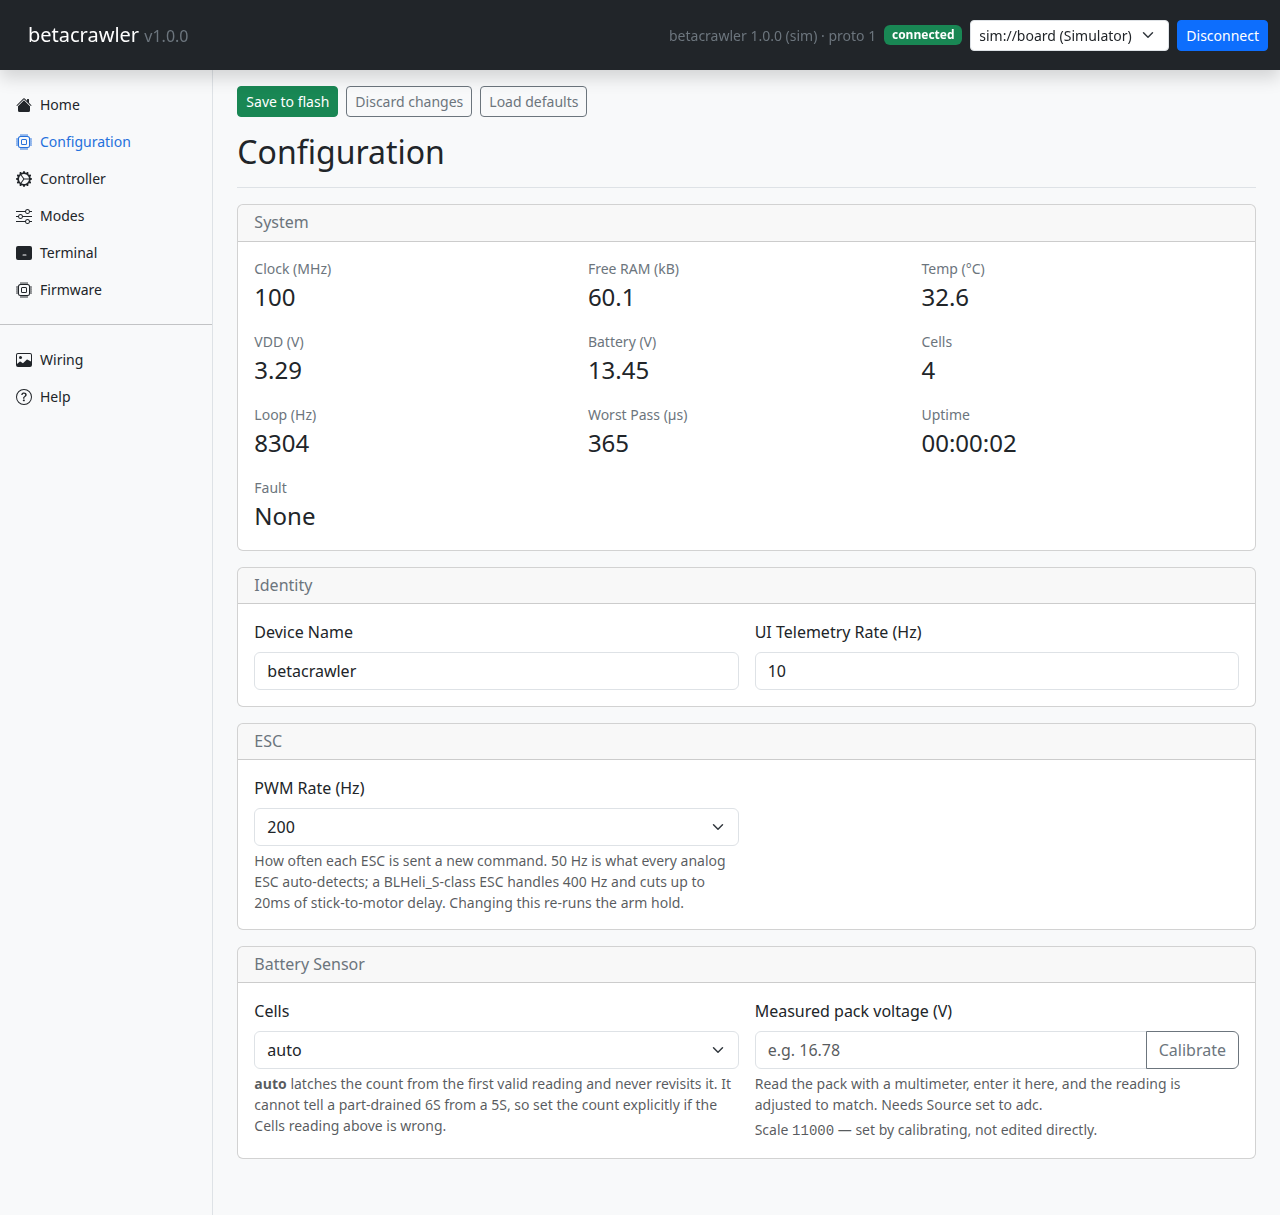
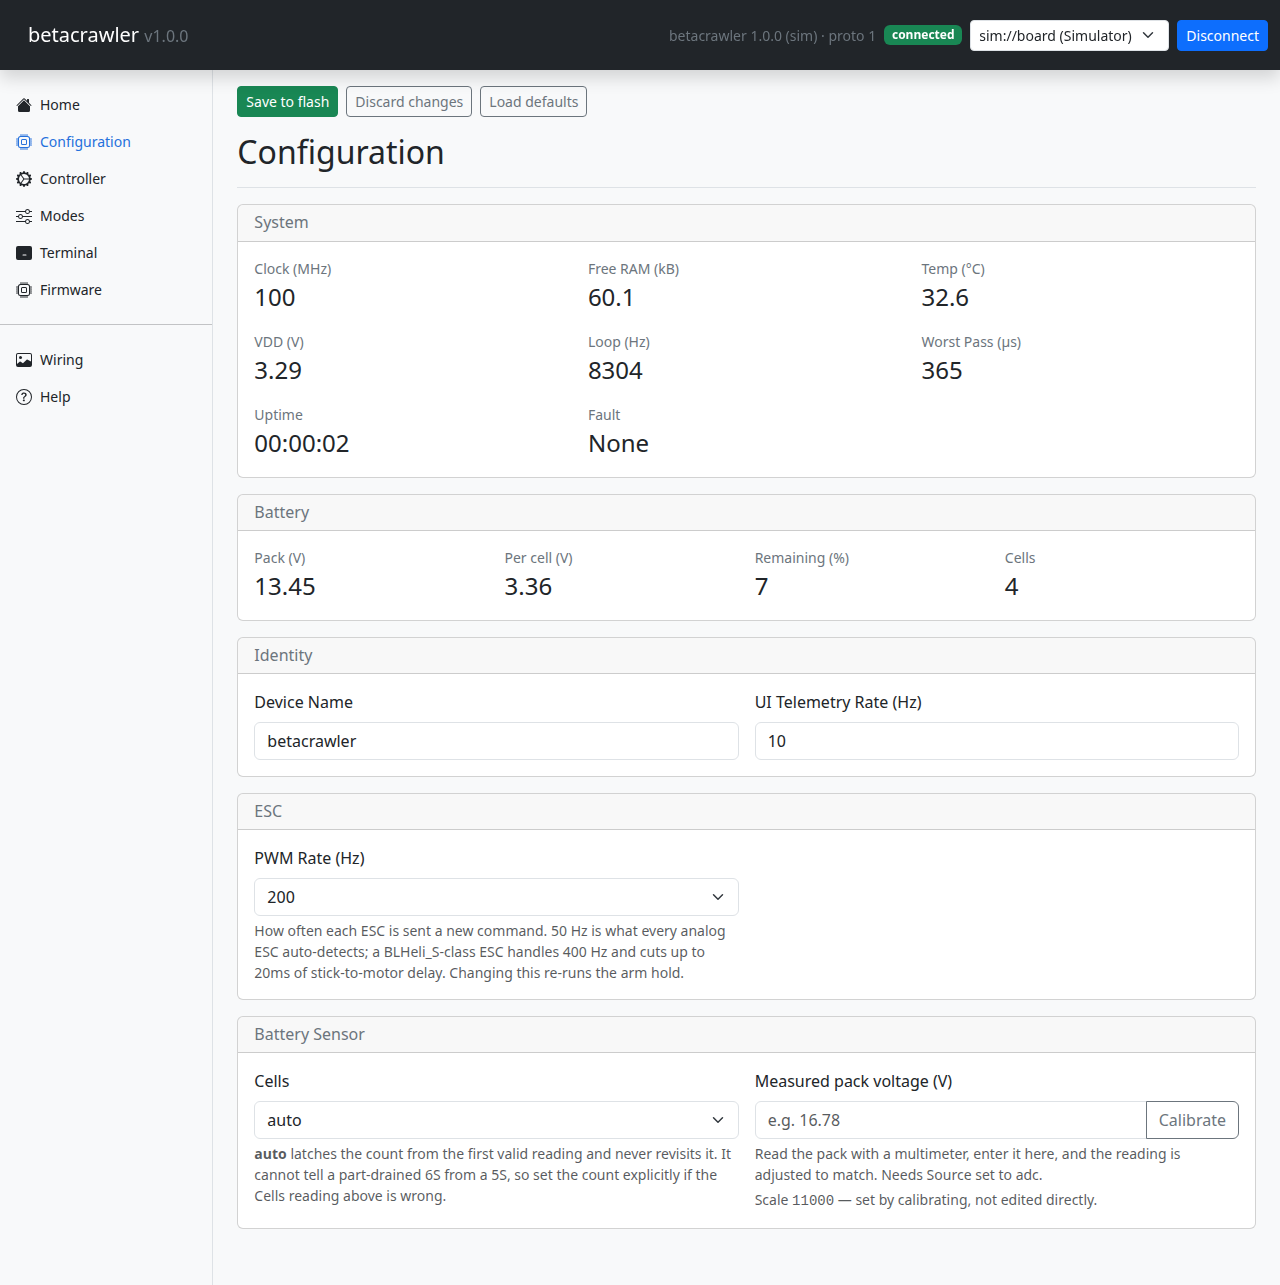
feat: show pack, per-cell and remaining percent on a Battery card
Per-cell voltage is the reading that tells you a pack is going flat without any
mental arithmetic, so it belongs next to the pack total rather than being left
for the reader to work out. The Configuration page gains a Battery card holding
pack volts, volts per cell, remaining percent and the latched cell count; those
readings move out of System, which already carried two of them.

pct becomes telemetry rather than a browser-side calculation. The firmware
already sends that figure in its CRSF frame, so a second copy of the
3.3-4.2V-per-cell curve in JavaScript would let the app and the handset disagree
about the same pack. Volts per cell stays in the browser: exact division of two
readings the schema already carries, with no policy to duplicate.

FW_MAX_TLM 40 -> 48. This build now publishes 40 fields, and the header's own
reasoning is that a bare fit leaves nothing for the next module. TlmValue is 4
bytes, so the headroom costs 32 bytes of static RAM.

sim_model.py mirrors the new field, and its validity floor follows the firmware
to 6000mV. The Calibrate guard follows it too -- it rejected readings under
5000mV, which no longer matches the floor it is standing in for.

Verified in a headless browser against the real board: the card reads
16.64V / 4.16V per cell / 95% / 4 cells with no console errors, and the
arithmetic checks out both ways.

diff --git a/app/web/pages/config.html b/app/web/pages/config.html
@@ -4,13 +4,10 @@
           <div class="card mb-3" x-data>
             <div class="card-header h6 text-secondary mb-0 py-2">System</div>
             <div class="card-body row g-3">
-              <template x-for="key in ['clk', 'ram', 'temp', 'vdd', 'vbat', 'cells', 'loop', 'loopworst', 'up']
+              <template x-for="key in ['clk', 'ram', 'temp', 'vdd', 'loop', 'loopworst', 'up']
                                  .filter((k) => $store.telemetry.field(k).def)" :key="key">
                 <div class="col-6 col-md-4">
-                  <div class="text-secondary small"
-                       x-text="$store.telemetry.field(key).def?.unit
-                         ? `${$store.telemetry.field(key).def.label} (${$store.telemetry.field(key).def.unit})`
-                         : $store.telemetry.field(key).def?.label"></div>
+                  <div class="text-secondary small" x-text="tlmLabel(key)"></div>
                   <div class="fs-4" x-text="$store.telemetry.field(key).value ?? '–'"></div>
                 </div>
               </template>
@@ -25,6 +22,33 @@
               </template>
             </div>
           </div>
+          <template x-if="$store.telemetry.field('vbat').def">
+            <div class="card mb-3" x-data>
+              <div class="card-header h6 text-secondary mb-0 py-2">Battery</div>
+              <div class="card-body row g-3">
+                <div class="col-6 col-md-3">
+                  <div class="text-secondary small">Pack (V)</div>
+                  <div class="fs-4" x-text="$store.telemetry.field('vbat').value ?? '–'"></div>
+                </div>
+                <div class="col-6 col-md-3">
+                  <div class="text-secondary small">Per cell (V)</div>
+                  <div class="fs-4" x-text="perCellText()"></div>
+                </div>
+                <template x-if="$store.telemetry.field('pct').def">
+                  <div class="col-6 col-md-3">
+                    <div class="text-secondary small" x-text="tlmLabel('pct')"></div>
+                    <div class="fs-4" x-text="$store.telemetry.field('pct').value ?? '–'"></div>
+                  </div>
+                </template>
+                <template x-if="$store.telemetry.field('cells').def">
+                  <div class="col-6 col-md-3">
+                    <div class="text-secondary small" x-text="tlmLabel('cells')"></div>
+                    <div class="fs-4" x-text="$store.telemetry.field('cells').value ?? '–'"></div>
+                  </div>
+                </template>
+              </div>
+            </div>
+          </template>
           <fieldset class="card mb-3" :disabled="!$store.app.connected" x-data>
             <legend class="card-header h6 text-secondary mb-0 py-2">Identity</legend>
             <div class="card-body row g-3">

diff --git a/app/web/app.js b/app/web/app.js
@@ -243,6 +243,25 @@ function faultIsError(value) {
   return value !== null && value !== undefined && Number(value) > 0;
 }
 
+// "Label (unit)" for a telemetry key, or just the label when it carries no
+// unit. The descriptor owns both; this only assembles them.
+function tlmLabel(key) {
+  const def = Alpine.store('telemetry').field(key).def;
+  if (!def) return '';
+  return def.unit ? `${def.label} (${def.unit})` : def.label;
+}
+
+// Volts per cell, derived rather than published: an exact division of two
+// readings the schema already carries, where `pct` is a firmware policy and so
+// comes over the wire. Dashes until a cell count has been latched.
+function perCellText() {
+  const t = Alpine.store('telemetry');
+  const mv = t.raw['vbat'];
+  const cells = t.raw['cells'];
+  if (!mv || !cells) return '\u2013';
+  return (mv / cells / 1000).toFixed(2);
+}
+
 // The config form and telemetry cards are the two most repetitive,
 // DOM-construction-heavy regions of this file -- markup for both now lives in
 // index.html as <template x-for> blocks. These two stores are the only
@@ -354,8 +373,10 @@ document.addEventListener('alpine:init', () => {
       // raw, not field().value: the latter is the FORMATTED string ("16.78"),
       // already through the div/dec display hints. The comparison and the
       // formula below are both in millivolts, which is what raw carries.
+      // Matches the firmware's own validity floor: a USB-powered board wired
+      // to a PDB reads ~4600mV with no pack, which must not be calibrated on.
       const reported = Alpine.store('telemetry').raw['vbat'];
-      if (!reported || reported < 5000) {
+      if (!reported || reported < 6000) {
         showError('Calibrate: no valid reading \u2014 connect a pack first');
         return;
       }

diff --git a/app/backend/sim_model.py b/app/backend/sim_model.py
@@ -37,14 +37,29 @@ def trunc_div(a: int, b: int) -> int:
 VBAT_SIM_LOW_MV = 13200
 VBAT_SIM_HIGH_MV = 16800
 VBAT_SIM_PERIOD_MS = 60000
-VBAT_MIN_VALID_MV = 5000
+VBAT_MIN_VALID_MV = 6000
 VBAT_CELL_DETECT_MV = 4300
+VBAT_CELL_EMPTY_MV = 3300
+VBAT_CELL_FULL_MV = 4200
 
 
 def detect_cells(pack_mv: int) -> int:
     if pack_mv < VBAT_MIN_VALID_MV:
         return 0
     return -(-pack_mv // VBAT_CELL_DETECT_MV)
+
+
+def remaining_pct(pack_mv: int, cells: int) -> int:
+    """Linear across empty..full per cell, clamped, as the firmware does it."""
+    if cells == 0:
+        return 0
+    per_cell = trunc_div(pack_mv, cells)
+    if per_cell <= VBAT_CELL_EMPTY_MV:
+        return 0
+    if per_cell >= VBAT_CELL_FULL_MV:
+        return 100
+    return trunc_div((per_cell - VBAT_CELL_EMPTY_MV) * 100,
+                     VBAT_CELL_FULL_MV - VBAT_CELL_EMPTY_MV)
 
 
 def triangle_percent(phase_ms: int, period_ms: int) -> int:
@@ -372,7 +387,7 @@ class SimModel:
         sweeps a synthetic pack, and the cell count latches once."""
         source = self.text("vbat.source")
         if source == "off":
-            return {"vbat": 0, "cells": 0}
+            return {"vbat": 0, "cells": 0, "pct": 0}
         # Both adc and sim sweep the same synthetic pack. There is no divider
         # here to read, and everything this model reports is synthetic by
         # definition -- a simulator that reported zero volts for its own
@@ -385,7 +400,8 @@ class SimModel:
             self._vbat_cells = int(sel)
         elif self._vbat_cells == 0:
             self._vbat_cells = detect_cells(mv)
-        return {"vbat": mv, "cells": self._vbat_cells}
+        return {"vbat": mv, "cells": self._vbat_cells,
+                "pct": remaining_pct(mv, self._vbat_cells)}
 
     def _system(self, now_ms: int) -> dict:
         # Deterministic triangles rather than a random walk: the whole model

diff --git a/firmware/include/config.h b/firmware/include/config.h
@@ -34,18 +34,19 @@
 // person, so don't rely on it as a warning.
 #define FW_MAX_MODULES  8
 #define FW_MAX_PARAMS   32
-// This board's current build (led, button, esc0, esc1, rx enabled; servo and
-// st7789_240x240 off) exposes 33 telemetry fields: rx alone publishes 16
-// channels plus 7 link readings, esc0 and esc1 add 2 each (its pulse width
-// and arm state), and the rest split across system/button. 40 rather than a
-// bare fit leaves a little headroom for the next module or field;
+// This board's current build (led, button, esc0, esc1, rx, vbat, tank_drive
+// enabled; servo and st7789_240x240 off) exposes 40 telemetry fields: rx alone
+// publishes 16 channels plus 7 link readings, esc0 and esc1 add 2 each (its
+// pulse width and arm state), vbat 3, and the rest split across
+// system/tank_drive. 48 rather than a bare fit leaves headroom for the next
+// module or field;
 // TlmValue is 4 bytes, so the headroom costs 32 bytes of RAM in one place --
 // but there are two FW_MAX_TLM-sized arrays, not one: main.cpp's
 // `static TlmValue g_tlm[FW_MAX_TLM]` (+32 bytes static) and
 // st7789_240x240_driver.cpp's `core::TlmValue vals[FW_MAX_TLM]` (+32 more,
 // on the display-refresh stack). So raising this headroom costs 32 bytes of
 // static RAM plus 32 more on the display-refresh stack.
-#define FW_MAX_TLM      40
+#define FW_MAX_TLM      48
 
 // --- board ------------------------------------------------------------------
 // BOARD_HEADER is supplied by platformio.ini per environment, e.g.

diff --git a/firmware/src/hardware/vbat/vbat_params.cpp b/firmware/src/hardware/vbat/vbat_params.cpp
@@ -41,10 +41,13 @@ static const ParamDef kParams[] = {
 // Pack millivolts on the wire; div/dec are display hints only, exactly as
 // sys.vdd does it. cells is the LATCHED count, 0 before detection -- it
 // exists so a misdetection is visible rather than silently skewing percent.
+// pct is the same figure the CRSF frame carries, so the app and the handset
+// cannot disagree about how full the pack is.
 static const TlmDef kTlm[T_COUNT] = {
-  // key      label      unit     type          div   dec  fmt      group
-  {"vbat",   "Battery", "V",     TlmType::U32, 1000, 2,   nullptr, nullptr},
-  {"cells",  "Cells",   nullptr, TlmType::U32, 0,    0,   nullptr, nullptr},
+  // key      label        unit     type          div   dec  fmt      group
+  {"vbat",   "Battery",   "V",     TlmType::U32, 1000, 2,   nullptr, nullptr},
+  {"cells",  "Cells",     nullptr, TlmType::U32, 0,    0,   nullptr, nullptr},
+  {"pct",    "Remaining", "%",     TlmType::U32, 0,    0,   nullptr, nullptr},
 };
 
 const core::ModuleDesc kDesc = {

diff --git a/app/tests/test_api.py b/app/tests/test_api.py
@@ -49,7 +49,7 @@ def test_connect_then_schema_and_params(client):
     # its cards from the device rather than a hardcoded field list.
     assert {t["key"] for t in schema["tlm"]} == {
         "up", "clk", "ram", "temp", "vdd", "fault", "loop", "loopworst",
-        "vbat", "cells",
+        "vbat", "cells", "pct",
         "esc0", "arm0", "esc1", "arm1", "drv_l", "drv_r",
         "link", "lq", "rssi", "rate", "err", "rfrate", "pwr",
         "ch1", "ch2", "ch3", "ch4", "ch5", "ch6", "ch7", "ch8",

diff --git a/app/tests/test_device.py b/app/tests/test_device.py
@@ -92,7 +92,7 @@ def test_connect_caches_schema_and_values():
         assert dev.status()["state"] == "connected"
         assert dev.status()["proto"] == 1
         assert len(dev.schema()["params"]) == 32
-        assert len(dev.schema()["tlm"]) == 39
+        assert len(dev.schema()["tlm"]) == 40
         assert dev.values()["rx.deadband_us"] == 2
     finally:
         dev.disconnect()

diff --git a/firmware/src/hardware/vbat/vbat_params.h b/firmware/src/hardware/vbat/vbat_params.h
@@ -16,6 +16,6 @@ enum : uint8_t { SRC_OFF = 0, SRC_ADC = 1, SRC_SIM = 2 };
 enum : uint8_t { CELLS_AUTO = 0 };
 
 // Telemetry indices within this module's slice of the frame.
-enum : uint8_t { T_MV = 0, T_CELLS = 1, T_COUNT = 2 };
+enum : uint8_t { T_MV = 0, T_CELLS = 1, T_PCT = 2, T_COUNT = 3 };
 
 }  // namespace vbat

diff --git a/firmware/src/hardware/vbat/vbat_driver.cpp b/firmware/src/hardware/vbat/vbat_driver.cpp
@@ -121,6 +121,7 @@ void VbatDriver::tick(uint32_t nowMs) {
 void VbatDriver::readTelemetry(core::TlmValue* out) {
   out[T_MV].u    = mv_;
   out[T_CELLS].u = cells_;
+  out[T_PCT].u   = pct_;
 }
 
 }  // namespace vbat

diff --git a/CHANGELOG.md b/CHANGELOG.md
@@ -5,6 +5,17 @@ Summaries of completed work. Detail, reasoning and hardware-verification records
 
 ## Unreleased
 
+- **feat: the Configuration page gains a Battery card — pack voltage, volts per cell, remaining
+  percent and cell count.** Per-cell voltage is the number that tells you a pack is going flat
+  without any mental arithmetic, so it sits beside the pack total rather than being derived by the
+  reader. `pct` is now published as telemetry rather than computed in the browser: the firmware
+  already sends that figure in its CRSF frame, and a second copy of the 3.3–4.2V-per-cell curve in
+  JavaScript would let the app and the handset disagree about the same pack. Volts per cell stays
+  a browser-side division — it is exact arithmetic over two readings the schema already carries,
+  with no policy to duplicate. The four readings move out of the System card, which had grown to
+  carry two of them already. `FW_MAX_TLM` goes 40 → 48: this build now publishes 40 fields and a
+  bare fit leaves nothing for the next one, at a cost of 32 bytes of static RAM.
+
 - **fix: CRSF receive moves from PA10 to PB7, so USB DFU works with a receiver connected.**
   A powered receiver made the board impossible to put into DFU mode — via the `dfu` wire op and
   via BOOT0+NRST alike, since the cause is in ROM. The STM32 system bootloader auto-selects its
